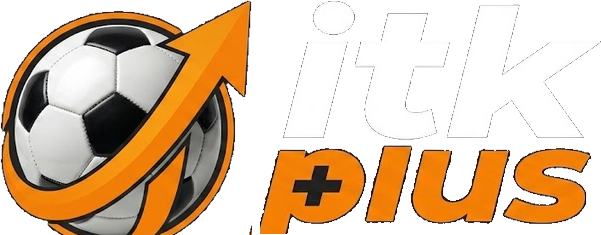
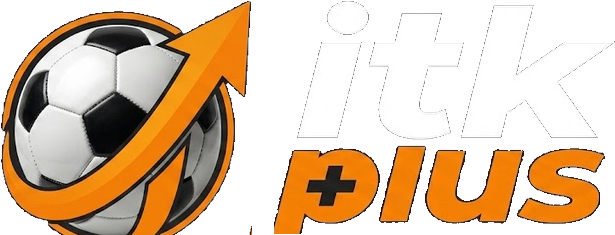
기사 구분선과 열린 행 표시, 로고 간격
행 사이에 헤어라인을 넣는다. 없으면 헤드라인이 줄줄이 이어져 경계를
글자만 보고 찾아야 했다. 열린 행은 면을 살짝 밝히고 티어 막대를 3px
에서 5px 로 넓혀, 지금 어느 기사를 읽고 있는지 눈에 들어오게 한다.

테두리 색도 올렸다. 따뜻한 근사 검정 위에서 #2b2724 는 사실상 안 보였다.

로고의 마크와 글자 사이를 8px 에서 22px 로 벌렸다. 화살표 끝이 "i" 에
거의 닿아 있었다.

diff --git a/components/ArticleCard.tsx b/components/ArticleCard.tsx
@@ -56,12 +56,24 @@ export function ArticleCard({
     : row.source;
 
   return (
-    <article className="group relative">
-      {/* Presence, not decoration: the bar is only as strong as the tier. */}
+    <article
+      // A hairline between rows: without one a column of headlines ran together
+      // and the eye had to find each boundary from the text alone. An open row
+      // gets a lit surface and a brighter rule so it is obvious which story is
+      // being read.
+      className={`group relative border-b border-border/70 transition-colors last:border-b-0 ${
+        open ? "bg-surface-2/70" : ""
+      }`}
+    >
+      {/* Presence, not decoration: the bar is only as strong as the tier — and
+          it widens when the row is open. */}
       <span
         aria-hidden
-        className="absolute inset-y-0 left-0 w-[3px]"
-        style={{ backgroundColor: tierRule(row.tier, row.official) }}
+        className={`absolute inset-y-0 left-0 transition-all ${open ? "w-[5px]" : "w-[3px]"}`}
+        style={{
+          backgroundColor: tierRule(row.tier, row.official),
+          opacity: open ? 1 : 0.85,
+        }}
       />
 
       <button
@@ -69,7 +81,9 @@ export function ArticleCard({
         onClick={() => expandable && setOpen((v) => !v)}
         aria-expanded={expandable ? open : undefined}
         className={`block w-full px-4 py-3 pl-5 text-left transition-colors sm:px-5 sm:pl-6 ${
-          expandable ? "cursor-pointer hover:bg-surface-2/60" : "cursor-default"
+          expandable
+            ? "cursor-pointer hover:bg-surface-2/50 focus-visible:bg-surface-2/50 focus-visible:outline-none"
+            : "cursor-default"
         }`}
       >
         {/* Who filed it leads the row. "매체보다 저자가 중요" is the premise of

diff --git a/app/globals.css b/app/globals.css
@@ -15,11 +15,11 @@
      #221814 — brown-leaning, not blue — and a cool grey UI under a warm mark
      made the two look like they came from different places. */
   --bg: #0a0908;
-  --surface: #121110;
-  --surface-2: #191716;
-  --surface-3: #221f1c;
-  --border: #2b2724;
-  --border-strong: #3d3833;
+  --surface: #131211;
+  --surface-2: #1c1a18;
+  --surface-3: #262320;
+  --border: #322d28;
+  --border-strong: #4a433c;
 
   /* Warm off-white rather than pure white: 15 hours of headlines is a lot of
      contrast to stare at. */

diff --git a/components/PulsePanel.tsx b/components/PulsePanel.tsx
@@ -22,7 +22,7 @@ export function PulsePanel({ pulse, now }: { pulse: Pulse; now: number }) {
   if (ranked === 0) return null;
 
   return (
-    <section className="rounded-lg border border-border bg-surface p-4">
+    <section className="rounded-xl border border-border bg-surface p-4">
       <div className="flex items-baseline justify-between">
         <h2 className="text-[13px] font-semibold">최근 24시간</h2>
         <span className="tnum text-[11px] text-faint">{pulse.total}건</span>

diff --git a/app/page.tsx b/app/page.tsx
@@ -116,7 +116,7 @@ export default async function Home({
       </header>
 
       <div className="mx-auto max-w-5xl gap-5 lg:flex lg:px-5 lg:py-5">
-        <main className="min-w-0 flex-1 overflow-hidden border-border lg:rounded-lg lg:border lg:bg-surface">
+        <main className="min-w-0 flex-1 overflow-hidden border-border lg:rounded-xl lg:border lg:bg-surface">
           <Filters
             teams={teams}
             activity={activity}

diff --git a/components/DiscordPanel.tsx b/components/DiscordPanel.tsx
@@ -280,7 +280,7 @@ export function DiscordPanel({ teams }: { teams: Team[] }) {
   };
 
   return (
-    <section className="rounded-lg border border-border bg-surface p-4">
+    <section className="rounded-xl border border-border bg-surface p-4">
       <div className="flex items-center justify-between">
         <h2 className="text-[13px] font-semibold">디스코드 알림</h2>
         <button

diff --git a/components/Logo.tsx b/components/Logo.tsx
@@ -24,7 +24,7 @@ import Image from "next/image";
  */
 
 /** Intrinsic size of public/itk-plus.png. */
-const W = 601;
+const W = 615;
 const H = 235;
 
 export function Logo({ height = 38 }: { height?: number }) {
